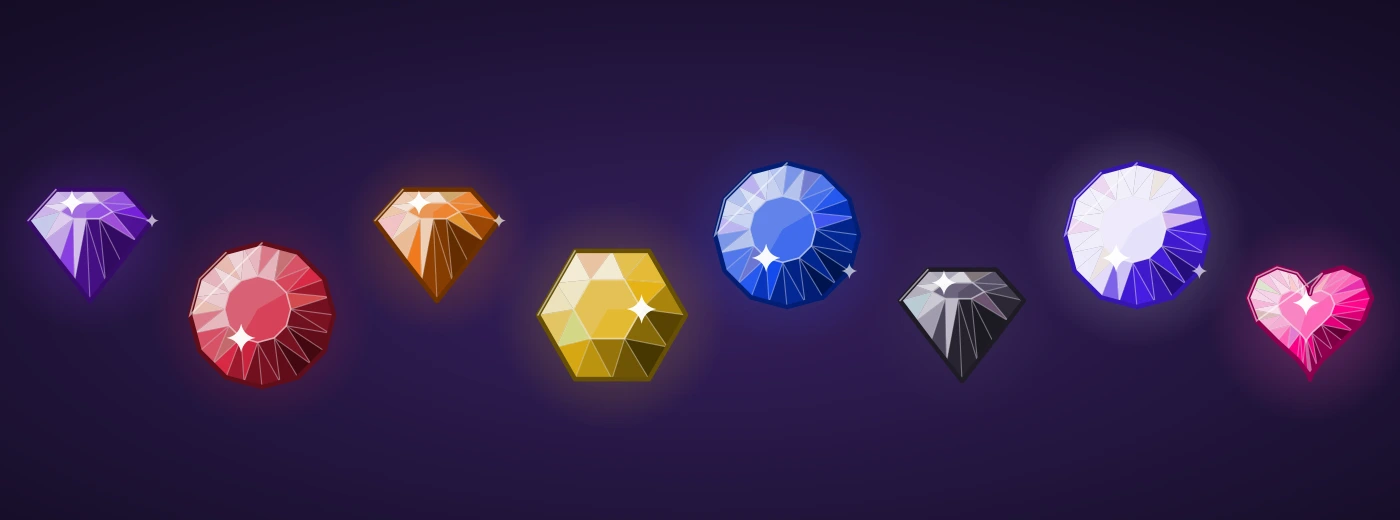
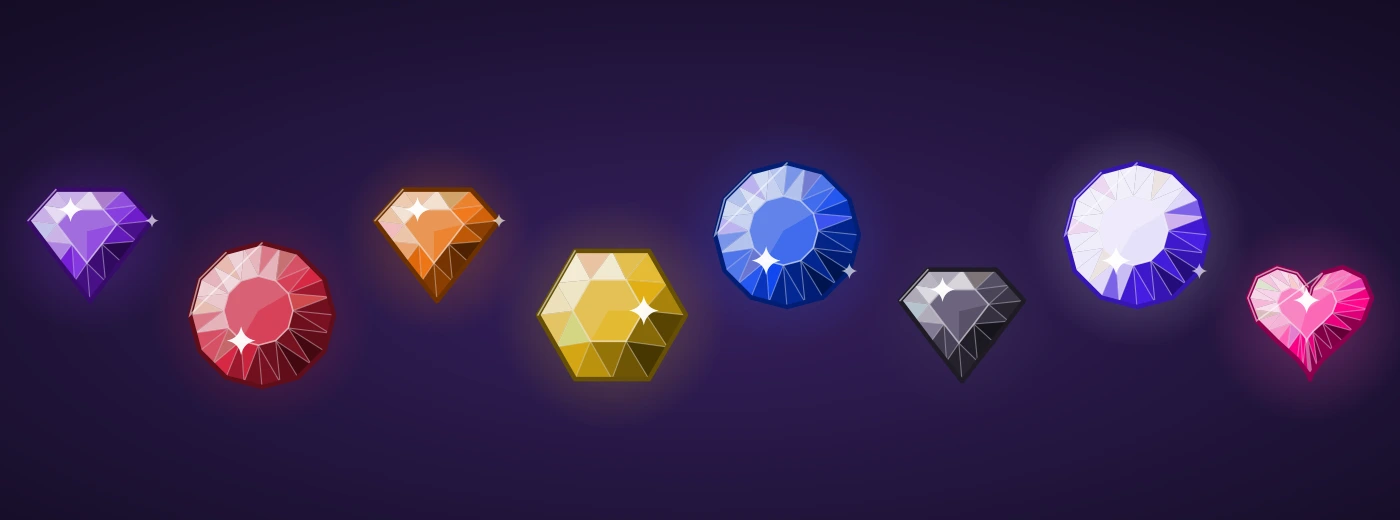
Cubic Zirconia's gemstone art was updated at [Cubic Zirconia](https://showtimestudiosinc.github.io/Imperious-Wiki/gem-types/cubic-zirconia/)
Claude-Session: https://claude.ai/code/session_01LScT36TUH9pPpvG3jNsW3N

diff --git a/scripts/cz-banner.py b/scripts/cz-banner.py
@@ -96,12 +96,12 @@ def gem(shape, base, cx, cy, r, idx):
     out = []
     o = outline(shape, cx, cy, r)
     n = len(o)
-    # table: smaller copy, nudged toward the light
-    tc = (cx - r * 0.06, cy - r * 0.08 if shape != 'kite' else cy - r * 0.34)
-    k = 0.46 if shape != 'kite' else 0.42
-    tbl = [(tc[0] + (x - cx) * k, tc[1] + (y - cy) * k) for x, y in o]
-    if shape == 'kite':
-        tbl = [(tc[0] + (x - cx) * k, tc[1] + (min(y, cy + r * 0.1) - cy) * k * 0.7) for x, y in o]
+    # table: the same shape as the stone, scaled down around its own center
+    # and nudged a little toward the light, so the middle always matches the outline
+    ocx, ocy = centroid(o)
+    k = 0.48
+    tc = (ocx - r * 0.05, ocy - r * 0.06)
+    tbl = [(tc[0] + (x - ocx) * k, tc[1] + (y - ocy) * k) for x, y in o]
 
     # soft colored glow behind the stone
     out.append(f'<circle cx="{cx}" cy="{cy}" r="{r * 1.55:.0f}" fill="url(#glow{idx})"/>')
